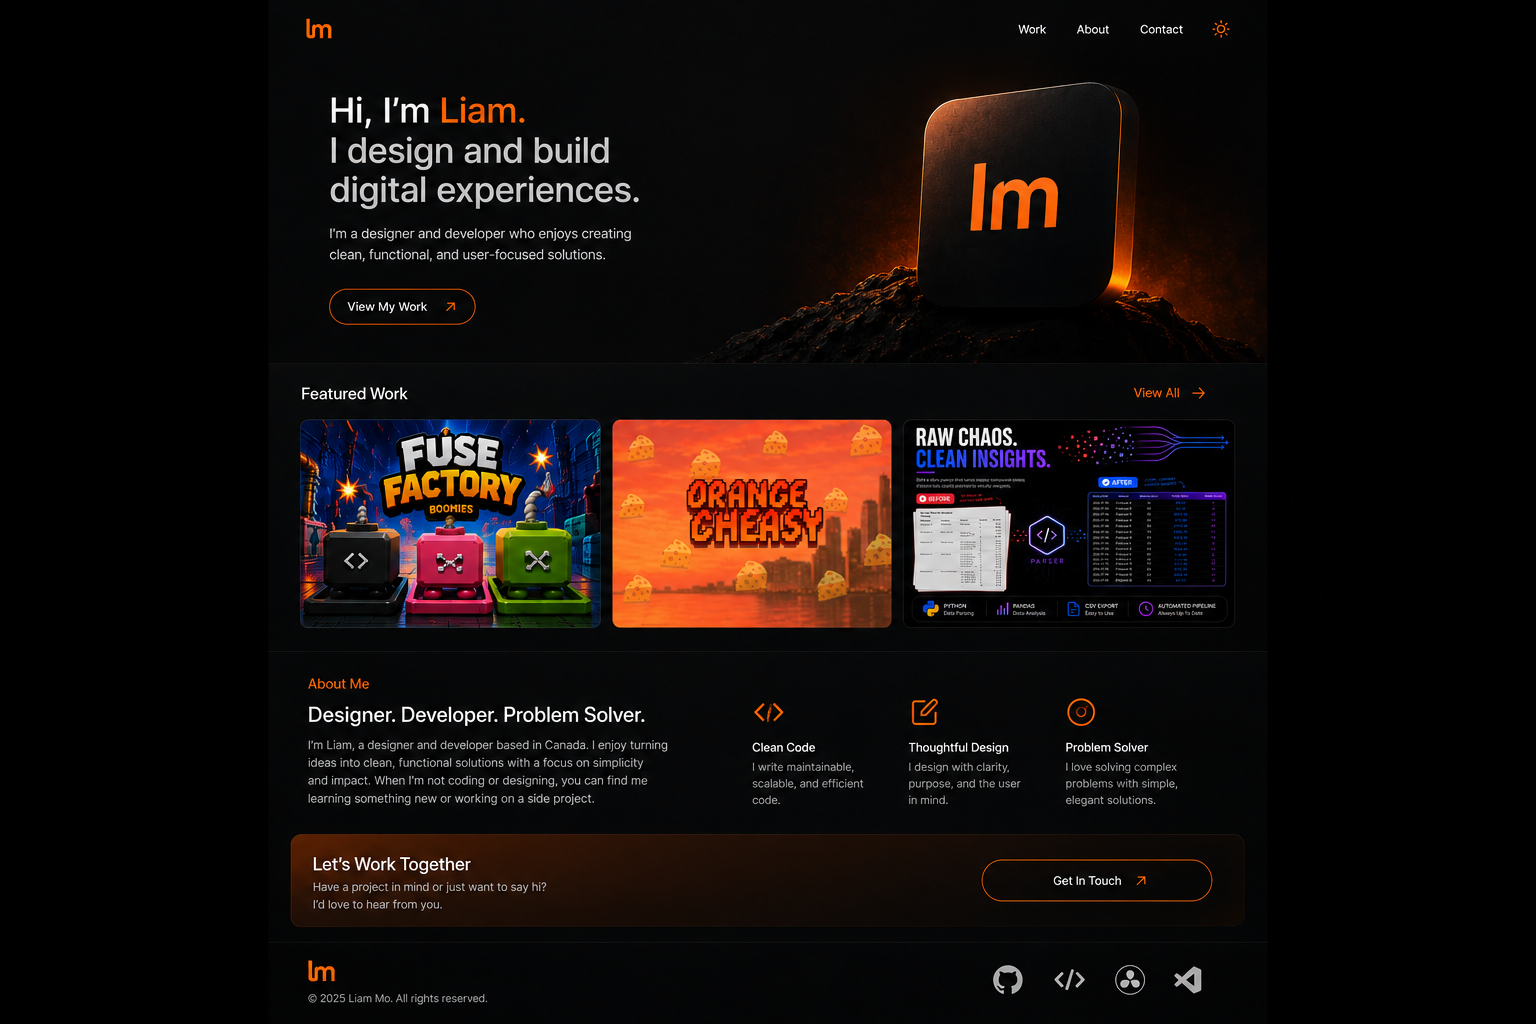
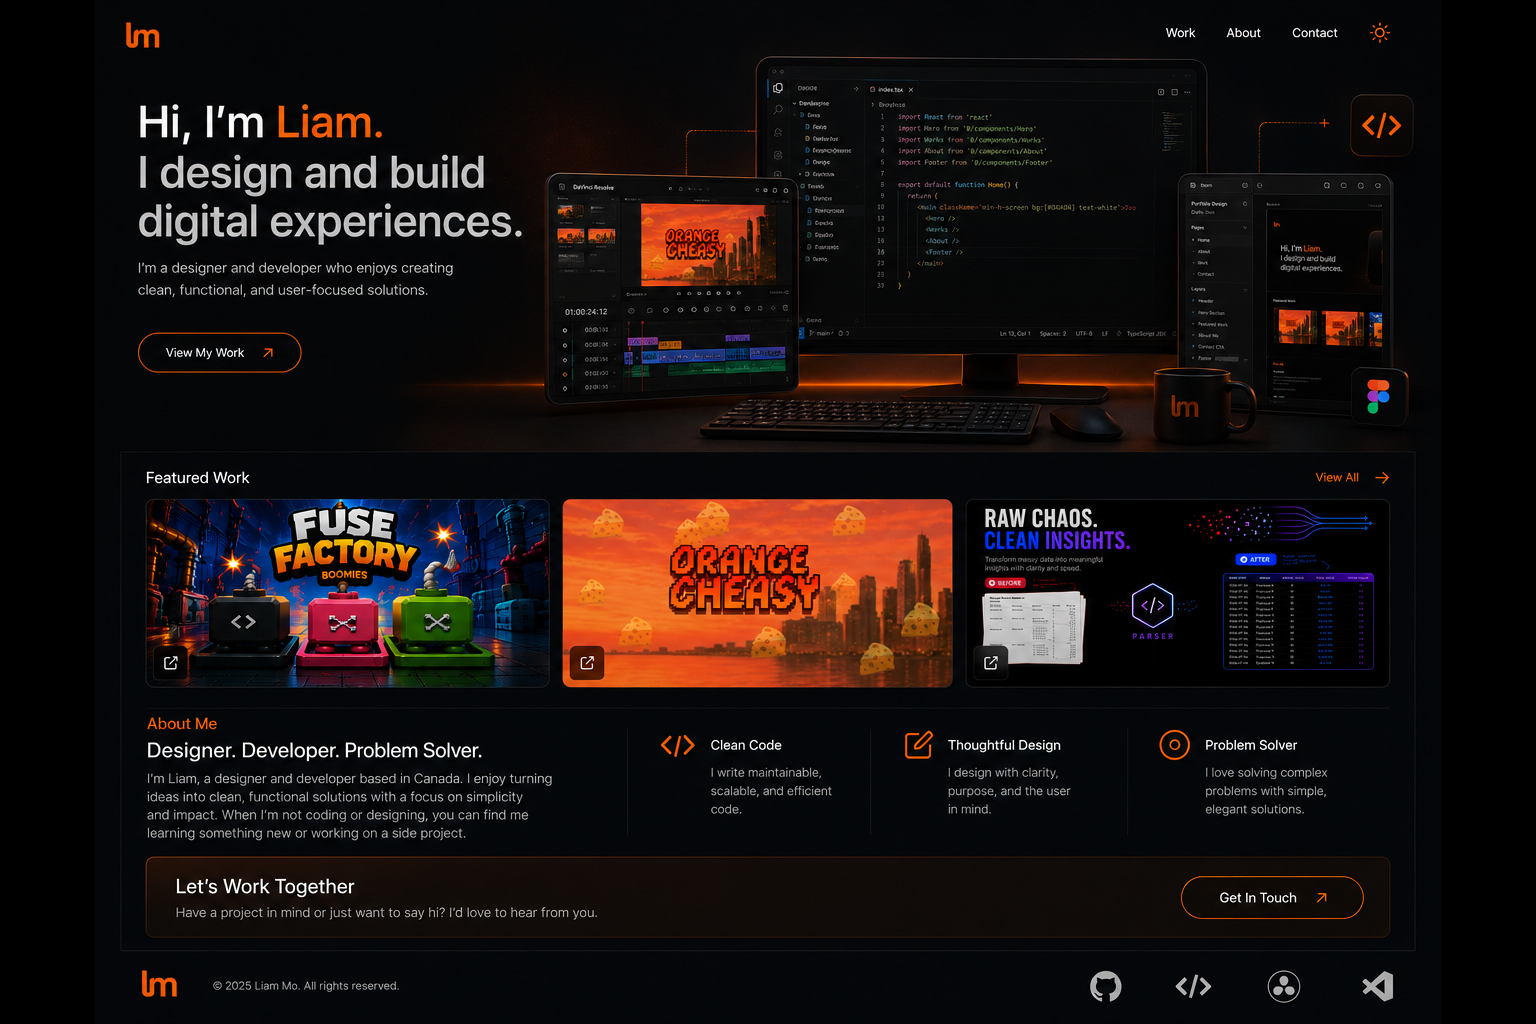
changed homepage hero image

diff --git a/liamthemo-freelance-website/src/app/page.tsx b/liamthemo-freelance-website/src/app/page.tsx
@@ -66,7 +66,7 @@ export default function Home() {
         />
 
         <div className="relative mx-auto max-w-6xl px-5 pt-4 pb-6 sm:px-8 sm:pt-6 sm:pb-8">
-          <div className="grid items-center gap-14 lg:grid-cols-[minmax(0,1fr)_minmax(0,24rem)]">
+          <div className="grid items-center gap-14 lg:grid-cols-[minmax(0,1fr)_minmax(0,30rem)]">
             {/*
               ml-5: measured in the mockup — the hero text block sits ~25px
               (native scale) further right than the logo/nav's left edge,
@@ -87,9 +87,8 @@ export default function Home() {
                 <span className="block">
                   Hi, I&apos;m <span className="text-accent">Liam</span>.
                 </span>
-                <span className="block">
-                  I design and build digital experiences.
-                </span>
+                <span className="block">I design and build</span>
+                <span className="block">digital experiences.</span>
               </h1>
               <p className="mt-6 max-w-[52ch] text-body text-text-muted">
                 Custom automation, spreadsheets, websites, and technology
@@ -169,31 +168,82 @@ export default function Home() {
       </section>
 
       {/*
-        Short, mockup-matching identity section — NOT the three-virtue block
-        (§9.6, §11 both rule that out by name, and the owner separately chose
-        to cut it rather than replace it with a specifics version). This is
-        just the mockup's "About Me" label, heading and paragraph, ships
-        as its literal words per the same owner call covering the hero.
-
-        Flagging one thing rather than silently shipping it: "Designer.
-        Developer. Problem Solver." sits close to §9.6's named anti-goal
-        ("Clean Code / Thoughtful Design / Problem Solver") even without the
-        three-column layout that anti-goal is really about. Shipping it
-        as-is under the same "recreate the mockup first" direction already
-        given twice this phase — but it's the kind of line worth revisiting
-        once the faithful-recreation pass is done.
+        Owner override, 2026-08-17: the three-virtue trio (§9.6's named
+        anti-goal, §11's "no generic virtue blocks", §16's "owner chose to
+        cut it entirely") is back, because the owner supplied a new mockup
+        and declared it authoritative over those calls — same override
+        pattern as the hero copy above. CLAUDE.md §9.6/§11/§16 need a pass to
+        stop contradicting this; flagging here rather than silently drifting.
       */}
       <section className="mx-auto max-w-6xl px-5 py-6 sm:px-8 sm:py-8">
-        <p className="text-small font-medium text-accent">About Me</p>
-        <h2 className="mt-2 max-w-[24ch] text-h2 text-text">
-          Designer. Developer. Problem Solver.
-        </h2>
-        <p className="mt-4 max-w-[60ch] text-body text-text-muted">
-          I&apos;m Liam, a designer and developer based in Canada. I enjoy
-          turning ideas into clean, functional solutions with a focus on
-          simplicity and impact. When I&apos;m not coding or designing, you
-          can find me learning something new or working on a side project.
-        </p>
+        <div className="grid gap-10 lg:grid-cols-[minmax(0,20rem)_1fr] lg:items-start">
+          <div>
+            <p className="text-small font-medium text-accent">About Me</p>
+            <h2 className="mt-2 max-w-[24ch] text-h2 text-text">
+              Designer. Developer. Problem Solver.
+            </h2>
+            <p className="mt-4 max-w-[60ch] text-body text-text-muted">
+              I&apos;m Liam, a designer and developer based in Canada. I enjoy
+              turning ideas into clean, functional solutions with a focus on
+              simplicity and impact. When I&apos;m not coding or designing,
+              you can find me learning something new or working on a side
+              project.
+            </p>
+          </div>
+
+          <div className="grid gap-8 sm:grid-cols-3">
+            {[
+              {
+                title: "Clean Code",
+                description:
+                  "I write maintainable, scalable, and efficient code.",
+                icon: <path d="m8 6-4 6 4 6M16 6l4 6-4 6" />,
+              },
+              {
+                title: "Thoughtful Design",
+                description:
+                  "I design with clarity, purpose, and the user in mind.",
+                icon: (
+                  <path d="M12 20h9M16.5 3.5a2.121 2.121 0 0 1 3 3L7 19l-4 1 1-4Z" />
+                ),
+              },
+              {
+                title: "Problem Solver",
+                description:
+                  "I love solving complex problems with simple, elegant solutions.",
+                icon: (
+                  <>
+                    <circle cx="12" cy="12" r="9" />
+                    <circle cx="12" cy="12" r="2.5" fill="currentColor" stroke="none" />
+                  </>
+                ),
+              },
+            ].map((virtue) => (
+              <div key={virtue.title}>
+                <div className="flex h-11 w-11 items-center justify-center rounded-full border border-accent text-accent">
+                  <svg
+                    aria-hidden="true"
+                    viewBox="0 0 24 24"
+                    fill="none"
+                    stroke="currentColor"
+                    strokeWidth="2"
+                    strokeLinecap="round"
+                    strokeLinejoin="round"
+                    className="h-5 w-5"
+                  >
+                    {virtue.icon}
+                  </svg>
+                </div>
+                <h3 className="mt-4 text-body font-semibold text-text">
+                  {virtue.title}
+                </h3>
+                <p className="mt-2 text-small text-text-muted">
+                  {virtue.description}
+                </p>
+              </div>
+            ))}
+          </div>
+        </div>
       </section>
 
       {/*

diff --git a/liamthemo-freelance-website/src/components/HeroArt.tsx b/liamthemo-freelance-website/src/components/HeroArt.tsx
@@ -1,83 +1,55 @@
+import Image from "next/image";
+
 /*
   The hero's visual (CLAUDE.md §15 Phase 2, mockup composition: "large heading
-  left, artwork right"). Rebuilds the mockup's glowing-badge concept as inline
-  SVG + CSS rather than reusing the mockup's own render.
+  left, artwork right").
 
-  WHY NOT THE MOCKUP'S ASSET. That render only exists baked into the flattened
-  homepage screenshot — extracted, it's a ~650x320px crop, below retina
-  quality at real hero size, unlicensed for production use, and it's an LCP
-  candidate, so shipping a soft upscaled crop as the first paint is a bad
-  trade. It's also the kind of generic 3D render §9.6 lists as an anti-goal.
+  SUPERSEDES THE INLINE-SVG "MOUND" VERSION. That earlier build deliberately
+  avoided the mockup's own render because the only copy of it was a crop baked
+  into the flattened full-page screenshot — below retina quality at hero size
+  and an LCP candidate, so shipping an upscaled crop was a bad trade. The
+  owner has since supplied the real source render at /public/homepage/hero.png
+  (1536x1024, standalone), which resolves that objection, and made this
+  mockup authoritative over the anti-goal that previously ruled a 3D render
+  out (§9.6) — an explicit override, documented here the same way the hero
+  copy's override is documented in page.tsx.
 
-  WHAT THIS IS INSTEAD: the real "lm" mark (same glyph as Navbar/Footer) on a
-  card, with a soft --accent-dim glow behind it standing in for the rim light,
-  and a low-contrast "mound" shape anchoring it to something solid — same
-  spirit as the mockup, zero image weight, infinitely crisp, no licensing
-  question, and it reinforces the actual logo instead of a stock-feeling prop.
+  hero.webp is a sharp-recompressed copy of the source PNG (quality 82) —
+  1.7MB down to ~110KB — kept as the actual `src` so this one image doesn't
+  blow the homepage's 600KB payload target on its own (§12). The source PNG
+  stays in public/homepage/ for future re-exports at a different crop/quality.
 
-  EDGES BLEND, NOT A VISIBLE BOX. The glow is a blurred radial-gradient div
-  behind the SVG, feathering to transparent well before the container edge —
-  required per this phase's brief ("edges blend into the background rather
-  than showing a visible box"). The mound uses --surface-2, one step off
-  --bg, so its silhouette reads as form without a hard outline.
+  `sizes="(max-width: 1023px) 0px, 30rem"` pairs with `priority`: it's the
+  LCP element at lg+ (so it preloads, no lazy-load delay), but the wrapper is
+  `hidden lg:block` below that breakpoint (same mobile call as before — see
+  page.tsx), and a `0px` sizes entry makes the browser pick the smallest
+  generated srcset candidate there instead of the full desktop image, so the
+  unconditional preload tag Next emits for `priority` doesn't cost mobile
+  real bytes.
+
+  Decorative, not informational — the heading already states the outcome in
+  words — so `alt=""` and `aria-hidden` are correct here, not an omission.
 */
 
 export default function HeroArt({ className = "" }: { className?: string }) {
   return (
-    <div className={`relative flex items-center justify-center ${className}`}>
+    <div className={`relative ${className}`} aria-hidden="true">
       <div
-        aria-hidden="true"
-        className="pointer-events-none absolute inset-0 blur-3xl"
+        className="pointer-events-none absolute inset-0 -z-10 blur-3xl"
         style={{
           background:
             "radial-gradient(closest-side, var(--color-accent-dim), transparent)",
         }}
       />
-      <svg
-        viewBox="0 0 480 480"
-        aria-hidden="true"
-        focusable="false"
-        className="relative h-auto w-full max-w-[26rem]"
-      >
-        {/* Mound — low-contrast against --bg on purpose, so it reads as a
-            surface the card sits on rather than a distinct shape. */}
-        <path
-          d="M40 400 Q100 320 190 340 Q260 300 330 350 Q410 330 450 400 L450 460 L30 460 Z"
-          className="fill-surface-2"
-        />
-
-        {/* Card */}
-        <rect
-          x="140"
-          y="90"
-          width="200"
-          height="200"
-          rx="32"
-          className="fill-surface stroke-border"
-          strokeWidth="2"
-        />
-        {/* Rim light — one edge only, echoing the mockup's directional glow
-            without a literal 3D render. */}
-        <path
-          d="M172 92 Q142 92 142 122 L142 288"
-          fill="none"
-          className="stroke-accent"
-          strokeWidth="2"
-          strokeLinecap="round"
-          opacity="0.6"
-        />
-
-        <text
-          x="240"
-          y="215"
-          textAnchor="middle"
-          dominantBaseline="middle"
-          className="fill-accent font-display font-bold"
-          fontSize="88"
-        >
-          lm
-        </text>
-      </svg>
+      <Image
+        src="/homepage/hero.webp"
+        alt=""
+        width={1536}
+        height={1024}
+        priority
+        sizes="(max-width: 1023px) 0px, 30rem"
+        className="h-auto w-full max-w-[30rem]"
+      />
     </div>
   );
 }

diff --git a/liamthemo-freelance-website/CLAUDE.md b/liamthemo-freelance-website/CLAUDE.md
@@ -300,9 +300,10 @@ Do not produce:
 - Orange on non-interactive elements
 - Pure `#000` background or pure grey neutrals
 - Glassmorphism, frosted blur panels, animated gradient blobs
-- A "Clean Code / Thoughtful Design / Problem Solver" trio of generic virtues — see §11
 - Stock photography or generic 3D illustration where real project art could go
 - Neon glow on text. Glow belongs on surfaces and focal images, not typography.
+
+**2026-08-17, superseded in part:** the "Clean Code / Thoughtful Design / Problem Solver" trio and a generic-3D-render hero image were both on this list. The owner supplied a new mockup and declared it authoritative over both calls — the trio is back in the home page's About section, and the hero is now a photoreal desk-scene render at `/homepage/hero.webp` (see `HeroArt.tsx`, `src/app/page.tsx`). §11's "no generic virtue blocks" rule is superseded the same way.
 
 ---
 
@@ -429,7 +430,8 @@ Flag rather than deciding:
 
 - [x] Heading and body typefaces — kept Bricolage Grotesque + Inter (Phase 0), already self-hosted and already matching §9.3 before the redesign started
 - [x] Nav label — neither "Work" nor "Portfolio". Owner chose **"Projects"** (Phase 1), used consistently in nav, footer, and internal links/metadata
-- [x] Three-virtue block — owner chose to cut it entirely rather than replace it with a specifics version (Phase 2). A short, mockup-matching "About Me" label/heading/paragraph ships in its place, without the three-column layout
+- [x] Three-virtue block — reversed 2026-08-17. Owner supplied a new mockup and put it back in the home page About section (Clean Code / Thoughtful Design / Problem Solver, three columns with icons), superseding the Phase 2 cut. See §9.6.
 - [ ] Real before/after metrics for the Restaurant Sales Parser
 - [ ] Whether starting prices are published or quote-only
 - [ ] Service area wording for Local Tech Help — remote, local, or both
+- [ ] Nav label "Work" vs "Projects" — the 2026-08-17 mockup shows "Work" in the header nav, contradicting the Phase 1 "Projects" decision above. Not changed yet; only the hero image and About section were in scope for this pass. Flag to the owner before touching it.
